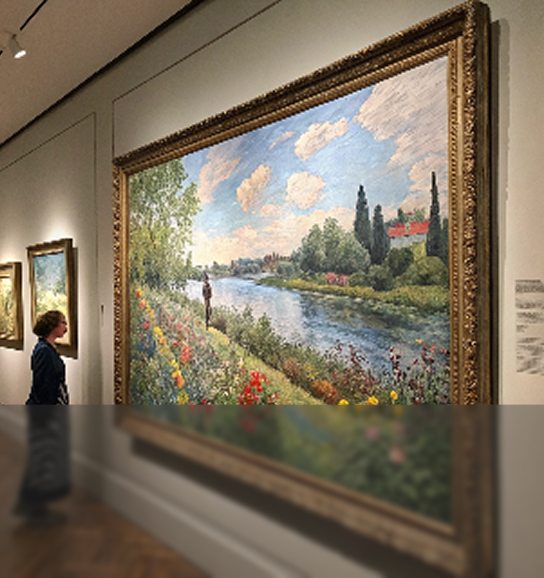
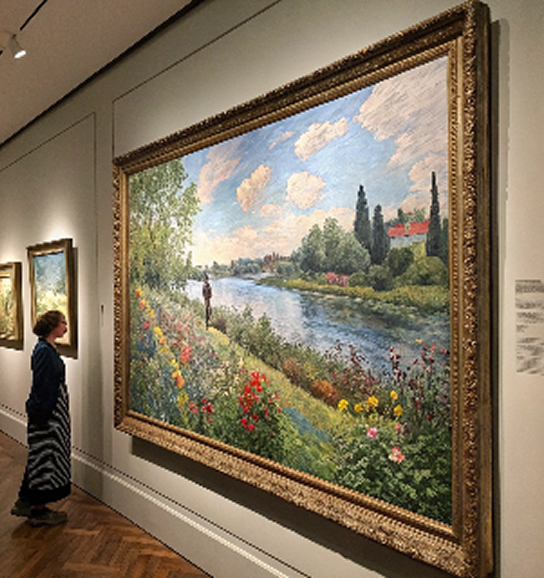
На экране "Лендинг" сделан предпросмотр фото

Changed region(s): [[0.0, 0.6851, 1.0, 1.0], [0.0938, 0.9965, 0.125, 1.0], [0.0625, 0.9654, 0.0938, 0.9965]]

diff --git a/lib/aboutMuseum.dart b/lib/aboutMuseum.dart
@@ -1,11 +1,14 @@
 import 'package:flutter/material.dart';
+import 'package:flutter_svg/svg.dart';
 import 'package:google_fonts/google_fonts.dart';
 import 'package:flutter_slidable/flutter_slidable.dart';
+import 'package:nexusmuseum/globals.dart';
 import 'package:nexusmuseum/uikit/appBar.dart';
 import 'package:nexusmuseum/uikit/drawer.dart';
 import 'package:nexusmuseum/uikit/footer.dart';
 import 'package:nexusmuseum/uikit/colors.dart';
 import 'package:nexusmuseum/uikit/social.dart';
+import 'package:url_launcher/url_launcher_string.dart';
 
 // Экран О музее
 class AboutMuseum extends StatefulWidget {
@@ -64,25 +67,48 @@ class _AboutMuseumPageState extends State<AboutMuseum> with SingleTickerProvider
                         SizedBox(height: 10),
                         Row(
                           children: [
-                            Icon(Icons.location_pin, size: 20),
-                            SizedBox(width: 8),
+                            SvgPicture.asset('assets/icons/geo.svg', width: 15,),
+                            SizedBox(width: 12),
                             Text('Корпус «Античность»', style: GoogleFonts.inter(fontSize: 16)),
                           ],
                         ),
-                        SizedBox(height: 10),
+                        SizedBox(height: 13),
                         Row(
                           children: [
-                            Image.asset('assets/images/circle.png', height: 15, width: 15),
-                            SizedBox(width: 8),
-                            Text('Метро Новокузнецкая', style: GoogleFonts.inter(fontSize: 16)),
+                            Image.asset('assets/images/circle.png', height: 13, width: 13),
+                            SizedBox(width: 12),
+                            Text('метро Новокузнецкая', style: GoogleFonts.inter(fontSize: 16)),
                           ],
                         ),
-                        SizedBox(height: 10),
+                        SizedBox(height: 13),
                         Row(
                           children: [
-                            Icon(Icons.call_outlined, size: 18),
-                            SizedBox(width: 5),
-                            Text(' 8 (495) 957-456-07', style: GoogleFonts.inter(fontSize: 16)),
+                            SvgPicture.asset('assets/icons/phone.svg', width: 15),
+                            SizedBox(width: 8),
+                            GestureDetector(
+                              onTap: () {
+                                launchUrlString(phoneUrl, mode: LaunchMode.externalApplication);
+                              },
+                              child: Text(phoneNumber, style: GoogleFonts.inter(fontSize: 16)),
+                            ),
+                          ],
+                        ),
+                        SizedBox(height: 13),
+                        Row(
+                          crossAxisAlignment: CrossAxisAlignment.start,
+                          children: [
+                            Padding(
+                              padding: const EdgeInsets.only(top: 4),
+                              child: SvgPicture.asset('assets/icons/clock.svg',  width: 15),
+                            ),
+                            const SizedBox(width: 10),
+                            SizedBox(
+                              width: MediaQuery.of(context).size.width * 0.8,
+                              child: Text(
+                                'ВС, ВТ, СР: 10:00 — 18:00 (кассы и вход до 17:00)\nПН: выходной\nЧТ, ПТ, СБ: 10:00 — 21:00 (кассы и вход до 20:00)',
+                                style: GoogleFonts.inter(fontSize: 16),
+                              ),
+                            ),
                           ],
                         ),
                         SizedBox(height: 30),

diff --git a/lib/globals.dart b/lib/globals.dart
@@ -2,6 +2,8 @@ import 'package:flutter/material.dart';
 import 'package:flutter_svg/svg.dart';
 import 'package:google_fonts/google_fonts.dart';
 import 'package:nexusmuseum/uikit/colors.dart';
+import 'package:photo_view/photo_view.dart';
+import 'package:photo_view/photo_view_gallery.dart';
 import 'package:url_launcher/url_launcher.dart';
 
 dynamic slidableController;
@@ -124,4 +126,94 @@ Future<void> launchURL(String url) async {
   if (await canLaunchUrl(uri)) {
     await launchUrl(uri);
   }
+}
+
+//
+void openPhotoViewGallery({
+  required BuildContext context,
+  required List<String> imageList,
+  required List<String> titleList,
+  required int initialIndex,
+}) {
+  final PageController pageController = PageController(initialPage: initialIndex);
+  ValueNotifier<int> currentIndexNotifier = ValueNotifier(initialIndex);
+
+  Navigator.of(context).push(
+    MaterialPageRoute(
+      builder: (context) => Scaffold(
+        backgroundColor: black,
+        appBar: AppBar(
+          backgroundColor: Colors.transparent,
+          elevation: 0,
+          leading: IconButton(
+            icon: SvgPicture.asset('assets/icons/close.svg'),
+            onPressed: () => Navigator.pop(context),
+          ),
+        ),
+        body: Stack(
+          children: [
+            PhotoViewGallery.builder(
+              scrollPhysics: const BouncingScrollPhysics(),
+              builder: (BuildContext context, int index) {
+                return PhotoViewGalleryPageOptions(
+                  imageProvider: AssetImage(imageList[index]),
+                  minScale: PhotoViewComputedScale.contained * 0.8,
+                  maxScale: PhotoViewComputedScale.covered * 3,
+                  initialScale: PhotoViewComputedScale.contained,
+                  heroAttributes: PhotoViewHeroAttributes(tag: index),
+                );
+              },
+              itemCount: imageList.length,
+              loadingBuilder: (context, event) => const Center(
+                child: CircularProgressIndicator(),
+              ),
+              backgroundDecoration: const BoxDecoration(color: Colors.black),
+              pageController: pageController,
+              onPageChanged: (index) {
+                currentIndexNotifier.value = index;
+              },
+            ),
+            Positioned(
+              bottom: 40,
+              left: 20,
+              right: 20,
+              child: ValueListenableBuilder<int>(
+                valueListenable: currentIndexNotifier,
+                builder: (context, currentIndex, child) {
+                  return Container(
+                    padding: const EdgeInsets.symmetric(horizontal: 16, vertical: 10),
+                    decoration: BoxDecoration(
+                      color: Colors.black.withOpacity(0.5),
+                      borderRadius: BorderRadius.circular(8),
+                    ),
+                    child: Column(
+                      crossAxisAlignment: CrossAxisAlignment.start,
+                      children: [
+                        Text(
+                          titleList[currentIndex],
+                          style: GoogleFonts.inter(
+                            color: white,
+                            fontSize: 16,
+                            fontWeight: FontWeight.bold,
+                          ),
+                        ),
+                        const SizedBox(height: 4),
+                        Text(
+                          '${currentIndex + 1} / ${imageList.length}',
+                          style: GoogleFonts.inter(
+                            color: Colors.white70,
+                            fontSize: 14,
+                          ),
+                        ),
+                      ],
+                    ),
+                  );
+                },
+              ),
+            ),
+          ],
+        ),
+      ),
+    ),
+  );
 }

diff --git a/lib/landing.dart b/lib/landing.dart
@@ -191,6 +191,9 @@ class _LandingState extends State<Landing> {
                       padding: const EdgeInsets.all(6),
                       child: GestureDetector(
                         onTap: () {
+                          openPhotoViewGallery(context: context, imageList: exhibitionList, titleList: titleExhibitionList, initialIndex: index);
+                        },
+                        onLongPress: () {
                           Navigator.of(context).pushReplacement(MaterialPageRoute(builder: (context) => ExhibitionPage()));
                         },
                         child: Container(
@@ -295,23 +298,28 @@ class _LandingState extends State<Landing> {
                   itemBuilder: (context, index) {
                     return Padding(
                       padding: const EdgeInsets.all(6),
-                      child: Container(
-                        decoration: BoxDecoration(
-                          image: DecorationImage(image: AssetImage(collectionList[index]), fit: BoxFit.cover),
-                        ),
-                        child: Padding(
-                          padding: const EdgeInsets.all(5),
-                          child: Column(
-                            mainAxisAlignment: MainAxisAlignment.end,
-                            crossAxisAlignment: CrossAxisAlignment.start,
-                            children: [
-                              Text(
-                                titleCollectionList[index],
-                                overflow: TextOverflow.ellipsis,
-                                style: GoogleFonts.inter(fontSize: 8.8, color: white),
-                              ),
-                              SizedBox(height: index == 0 || index == 4 ? 5 : 17),
-                            ],
+                      child: GestureDetector(
+                        onTap: () {
+                          openPhotoViewGallery(context: context, imageList: collectionList, titleList: titleCollectionList, initialIndex: index);
+                        },
+                        child: Container(
+                          decoration: BoxDecoration(
+                            image: DecorationImage(image: AssetImage(collectionList[index]), fit: BoxFit.cover),
+                          ),
+                          child: Padding(
+                            padding: const EdgeInsets.all(5),
+                            child: Column(
+                              mainAxisAlignment: MainAxisAlignment.end,
+                              crossAxisAlignment: CrossAxisAlignment.start,
+                              children: [
+                                Text(
+                                  titleCollectionList[index],
+                                  overflow: TextOverflow.ellipsis,
+                                  style: GoogleFonts.inter(fontSize: 8.8, color: white),
+                                ),
+                                SizedBox(height: index == 0 || index == 4 ? 5 : 17),
+                              ],
+                            ),
                           ),
                         ),
                       ),

diff --git a/lib/exhibition.dart b/lib/exhibition.dart
@@ -122,7 +122,7 @@ class _ExhibitionPageState extends State<ExhibitionPage>
                             ),
                             const SizedBox(width: 10),
                             SizedBox(
-                              width: 300,
+                              width: MediaQuery.of(context).size.width * 0.8,
                               child: Text(
                                 'ВС, ВТ, СР: 10:00 — 18:00 (кассы и вход до 17:00)\nПН: выходной\nЧТ, ПТ, СБ: 10:00 — 21:00 (кассы и вход до 20:00)',
                                 style: GoogleFonts.inter(fontSize: 16),
